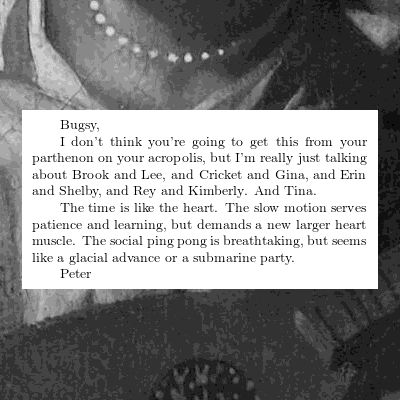
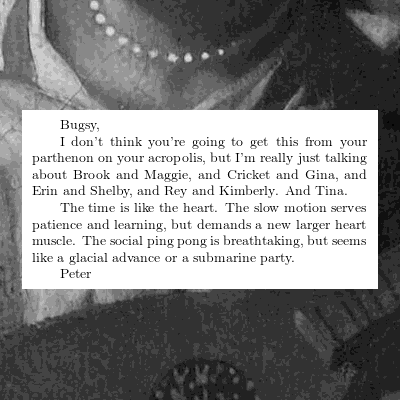
oh

Changed region(s): [[0.06, 0.42, 0.93, 0.51]]

diff --git a/2021/cygnus-20210217-0.tex b/2021/cygnus-20210217-0.tex
@@ -3,7 +3,7 @@
 Bugsy,
 
 I don't think you're going to get this from your parthenon on your
-acropolis, but I'm really just talking about Brook and Lee, and
+acropolis, but I'm really just talking about Brook and Maggie, and
 Cricket and Gina, and Erin and Shelby, and Rey and Kimberly.  And
 Tina.
 
